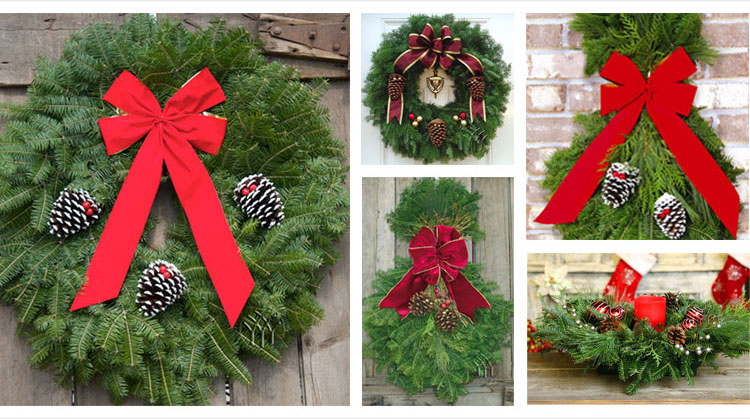
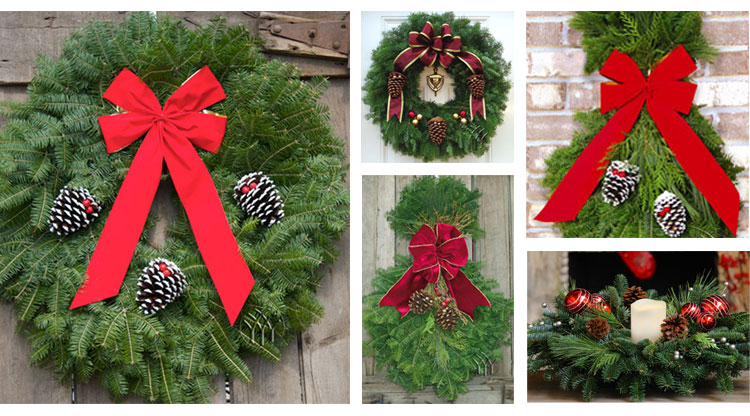
replaced centerpiece image

diff --git a/README.md b/README.md
@@ -7,7 +7,8 @@ Droid and iOS compatible.
 ~ Fixed bug that was stopping checkout when using the default settings
 ~ Cleared out address info when order is completed so that it doesn't show up on the next order
 ~ Default Address - added feedback and validation 
-
+~ Refigured how the catalog loads which fixed the iPhone / iPod first loading issue
+~ replaced the centerpiece on the front image.
 
 /**************** vs 1.17  || 5-10-17 **************/
 ~ Added a DB Variable for the User order logging
